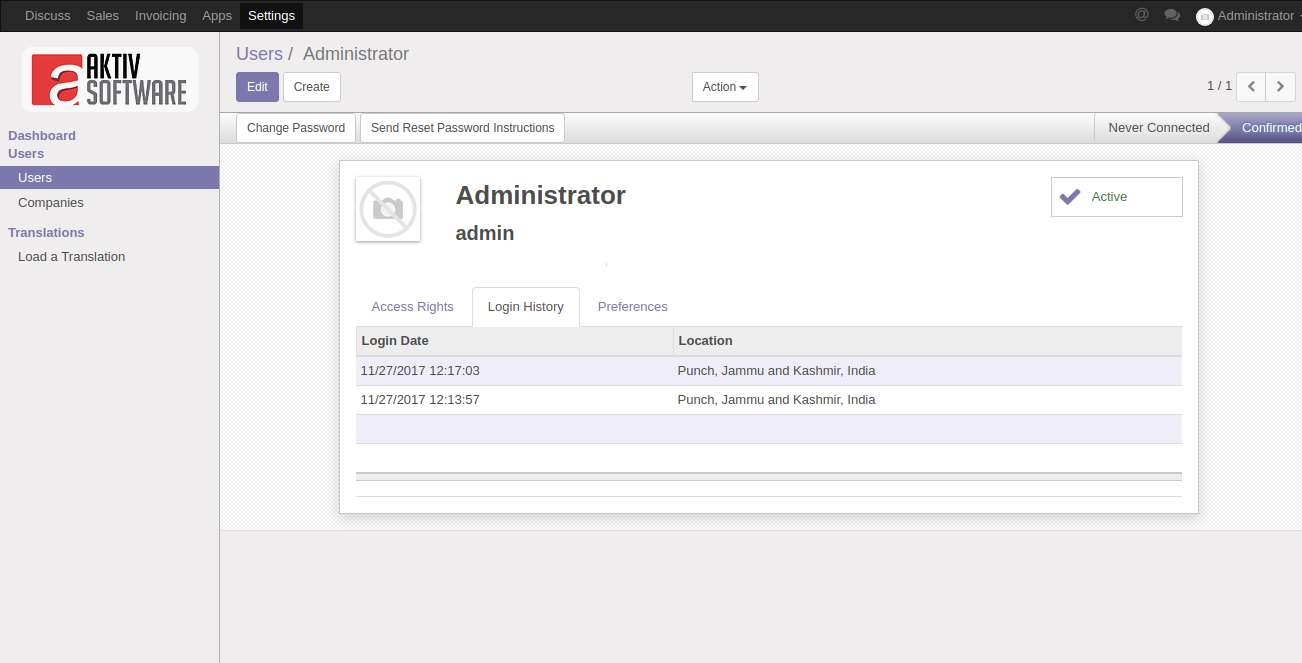
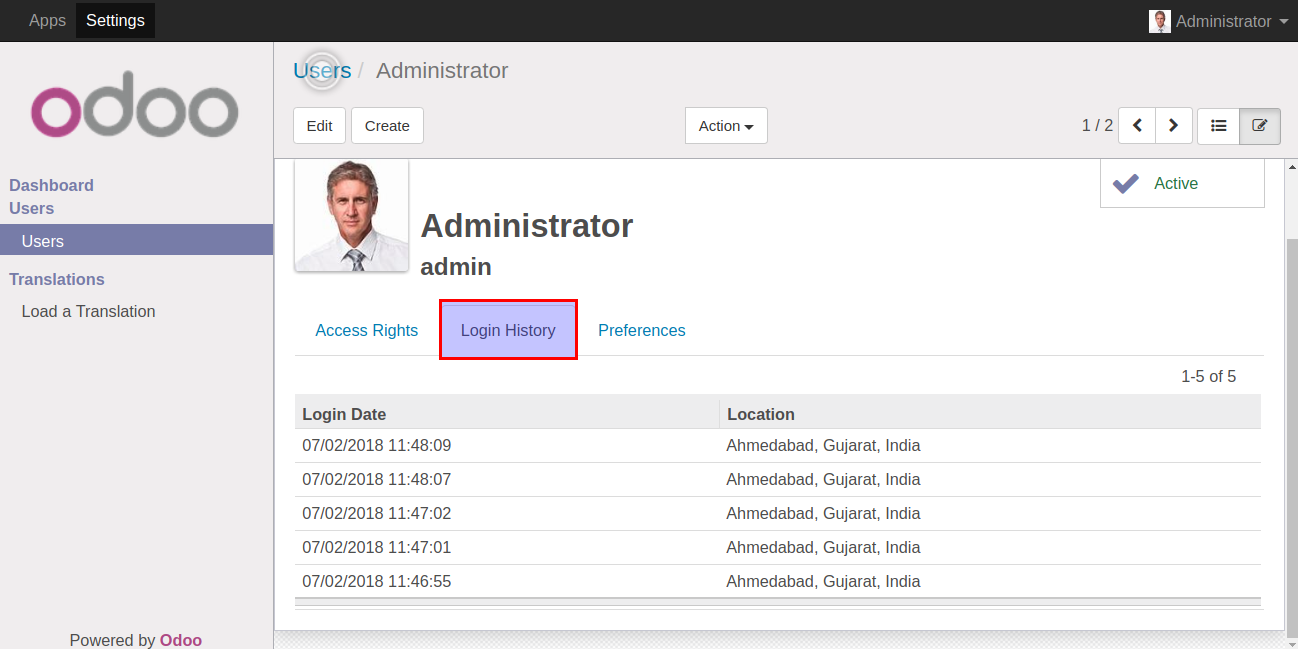
[IMP] Done required changes after testing.

diff --git a/user_location/models/res_user.py b/user_location/models/res_user.py
@@ -1,12 +1,10 @@
 # -*- coding: utf-8 -*-
 from openerp import api, fields, models
 import requests
-from geopy.geocoders import Nominatim
-from openerp.http import request
 
 
 class ResUserLog(models.Model):
-    _name = 'res.users.logs'
+    _inherit = 'res.users.log'
 
     location = fields.Char()
     login_date = fields.Datetime(
@@ -23,23 +21,22 @@ class Users(models.Model):
 
     _inherit = 'res.users'
 
-    logs_ids = fields.One2many('res.users.logs', 'user_id')
+    logs_ids = fields.One2many('res.users.log', 'user_id')
 
     @api.model
     def _update_last_login(self):
 
         vals = {}
-        ip = request.httprequest.environ.get('REMOTE_ADDR')
-        url = 'http://freegeoip.net/json/' + ip
+        url = 'http://ip-api.com/json/'
         r = requests.get(url)
         js = r.json()
-        geolocator = Nominatim(timeout=None)
-        a = js['latitude'], js['longitude']
-        location = geolocator.reverse(a)
-        user = self.search([('id', '=', self.id)])
-        if location:
-            vals.update({
-                'location': location.address,
-                'user_id': self.env.user.id
-            })
-        self.env['res.users.logs'].create(vals)
+        city = js['city']
+        regionname = js['regionName']
+        country = js['country']
+        address = city + ', ' + regionname + ', ' + country
+        vals.update({
+            'location': address,
+            'user_id': self.env.user.id})
+        user_log_id = self.env['res.users.log'].create(vals)
+        user = self.env.user
+        user.write({'log_ids': [(6, 0, [user_log_id.id])]})
